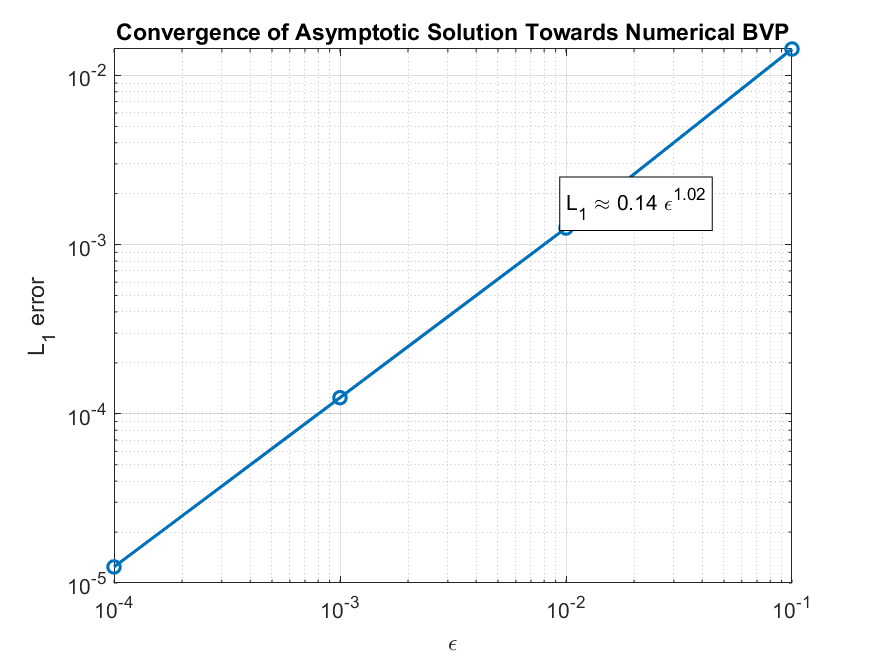
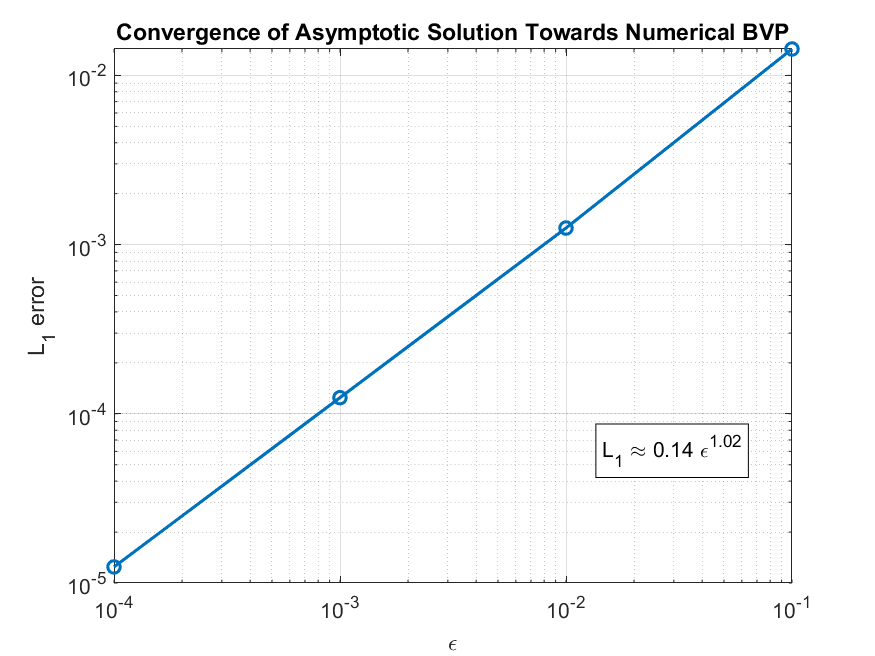
Optimized plots

Changed region(s): [[0.6789, 0.6402, 0.864, 0.7317], [0.6171, 0.2439, 0.7714, 0.3659], [0.7714, 0.2744, 0.8331, 0.3049]]

diff --git a/uniform_vs_numerical_bvp.m b/uniform_vs_numerical_bvp.m
@@ -102,8 +102,8 @@ title('Convergence of Asymptotic Solution Towards Numerical BVP');
 % fit slope
 coeff = polyfit(log(epsilon_vec(:)), log(L1_error(:)),1);
 rate  = coeff(1); intercept = coeff(2);
-text(epsilon_vec(2),L1_error(2)*1.4, ...
-     sprintf('L_1 \\approx %.2f \\epsilon^{%.2f}',exp(intercept),rate), ...
+text('Units','normalized','Position',[0.72 0.25], ...
+     'String',sprintf('L_1 \\approx %.2f \\epsilon^{%.2f}',exp(intercept),rate), ...
      'BackgroundColor','w','EdgeColor','k');
 
 fprintf('Observed fit:  log(L1) = %.2f·log(epsilon) + %.2f\n',rate,intercept);

diff --git a/README.md b/README.md
@@ -1,4 +1,4 @@
-# Boundary-Layer BVP — Uniform Approximation vs. Numerical Solution
+# Boundary-Layer — Matching Approximation vs. Numerical Solution
 
 This mini-repo demonstrates how a **matched-asymptotic (composite) uniform
 approximation** to a boundary layer compares with a fully numerical
@@ -22,7 +22,7 @@ where 0<ε<<1 creates a thin boundary layer near
 x=ε.
 
 * **Uniform approximation**  
-  Built with matched-asymptotic expansions:  
+  Built with matching:  
   outer solution + inner layer → matched and combined.
 
 * **Numerical reference**  
